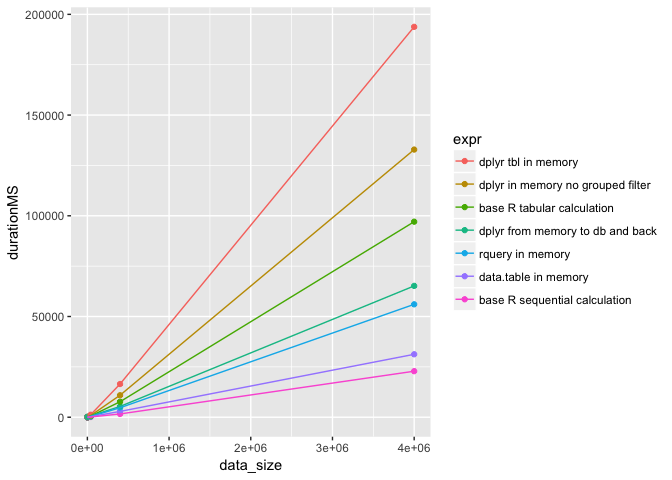
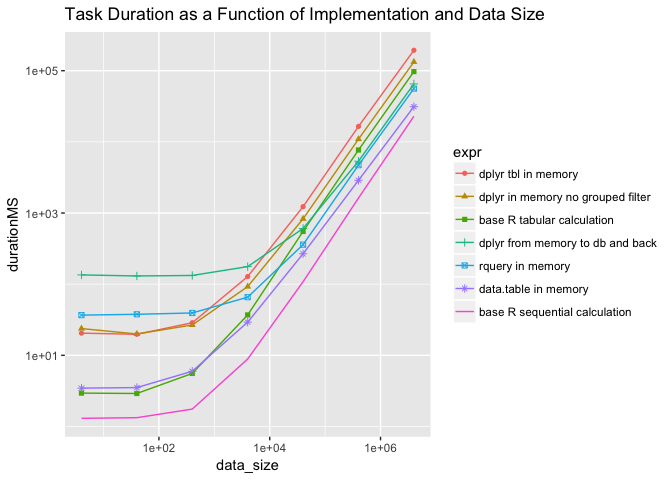
edit

diff --git a/extras/QTimingFollowup/plotexample.md b/extras/QTimingFollowup/plotexample.md
@@ -146,8 +146,32 @@ knitr::kable(summary)
 
 ``` r
 summary$expr <- reorder(summary$expr, -summary$durationMS)
-ggplot(data=summary, aes(x=data_size, y=durationMS, color=expr)) +
-  geom_point() + geom_line()
+ggplot(data=summary, aes(x=data_size, y=durationMS, 
+                         color=expr, shape =expr)) +
+  geom_point() + geom_line() + scale_x_log10() + scale_y_log10() +
+  ggtitle("Task Duration as a Function of Implementation and Data Size")
 ```
 
+    ## Warning: The shape palette can deal with a maximum of 6 discrete values
+    ## because more than 6 becomes difficult to discriminate; you have 7.
+    ## Consider specifying shapes manually if you must have them.
+
+    ## Warning: Removed 7 rows containing missing values (geom_point).
+
 ![](plotexample_files/figure-markdown_github/unnamed-chunk-2-1.png)
+
+``` r
+ggplot(data=summary, aes(x=data_size, y=data_size/durationMS, 
+                         color=expr, shape=expr)) +
+  geom_point() + geom_line() + scale_x_log10() + 
+  ylab("Row Per Millisecond") +
+  ggtitle("Rows Per Millisecond as Function of Implementation and Data Size")
+```
+
+    ## Warning: The shape palette can deal with a maximum of 6 discrete values
+    ## because more than 6 becomes difficult to discriminate; you have 7.
+    ## Consider specifying shapes manually if you must have them.
+
+    ## Warning: Removed 7 rows containing missing values (geom_point).
+
+![](plotexample_files/figure-markdown_github/unnamed-chunk-2-2.png)
